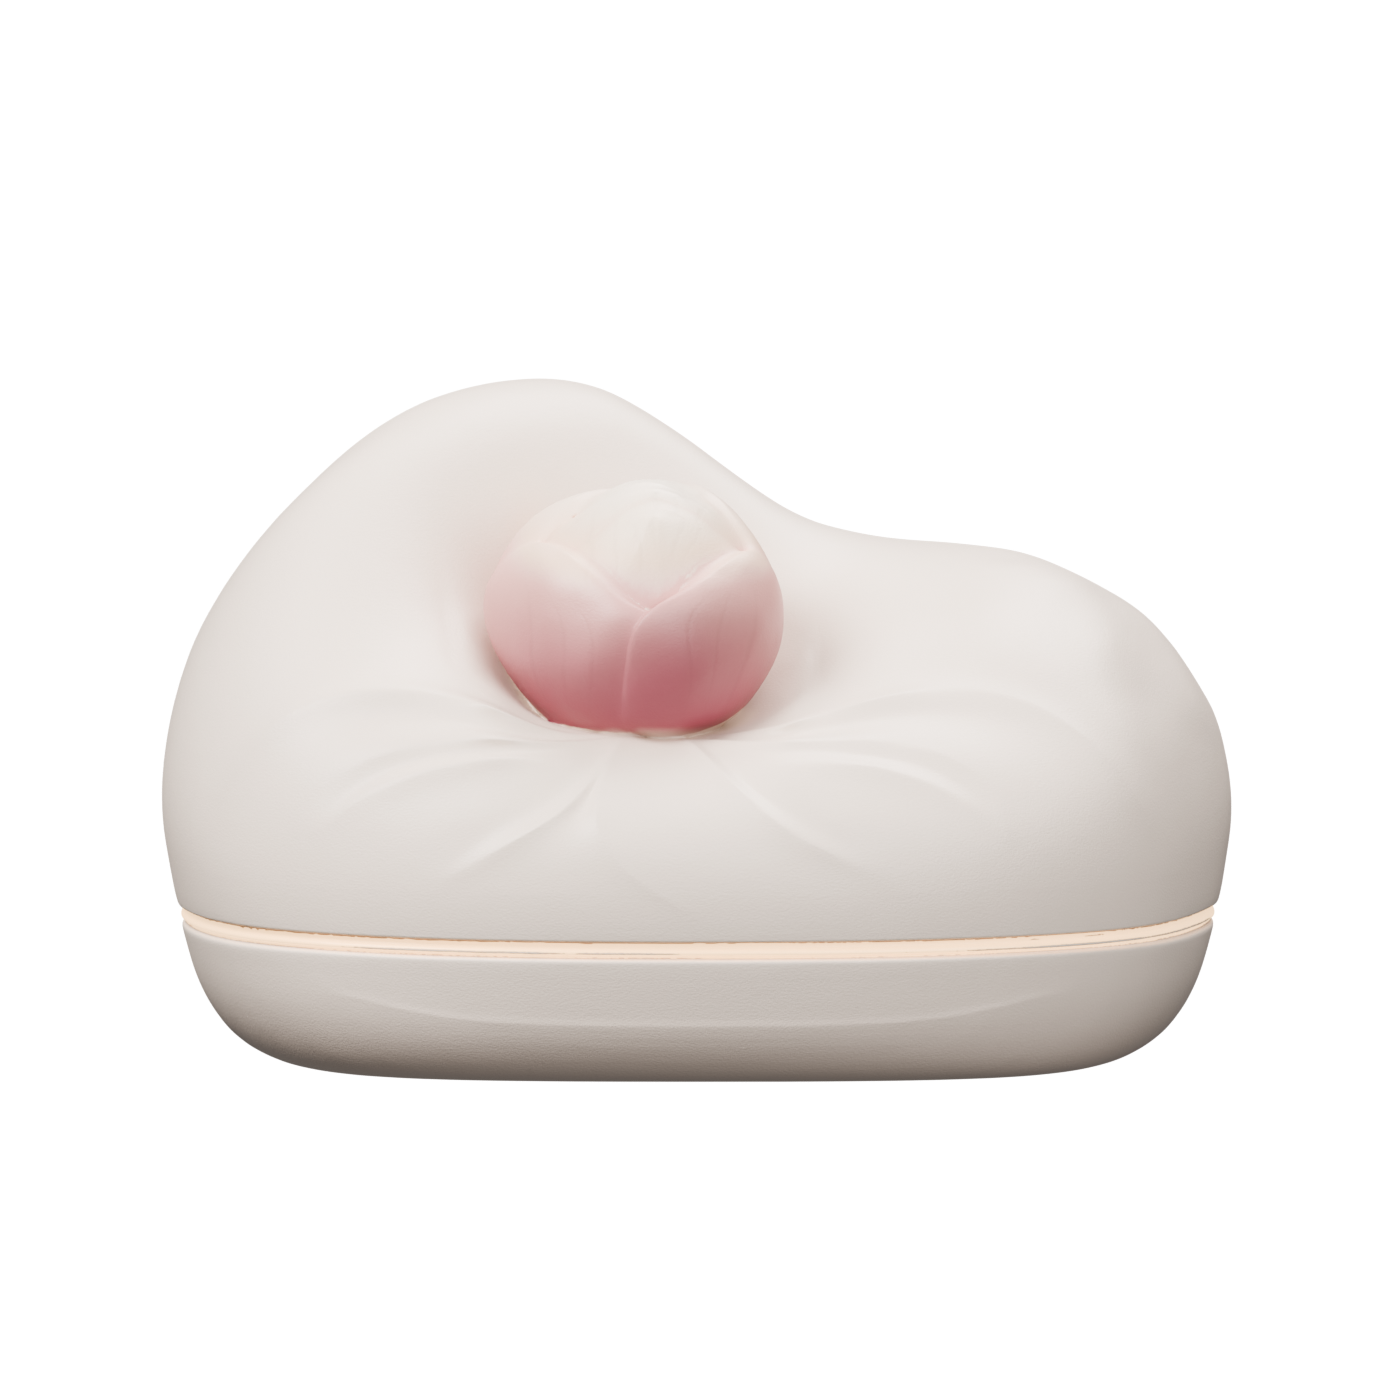
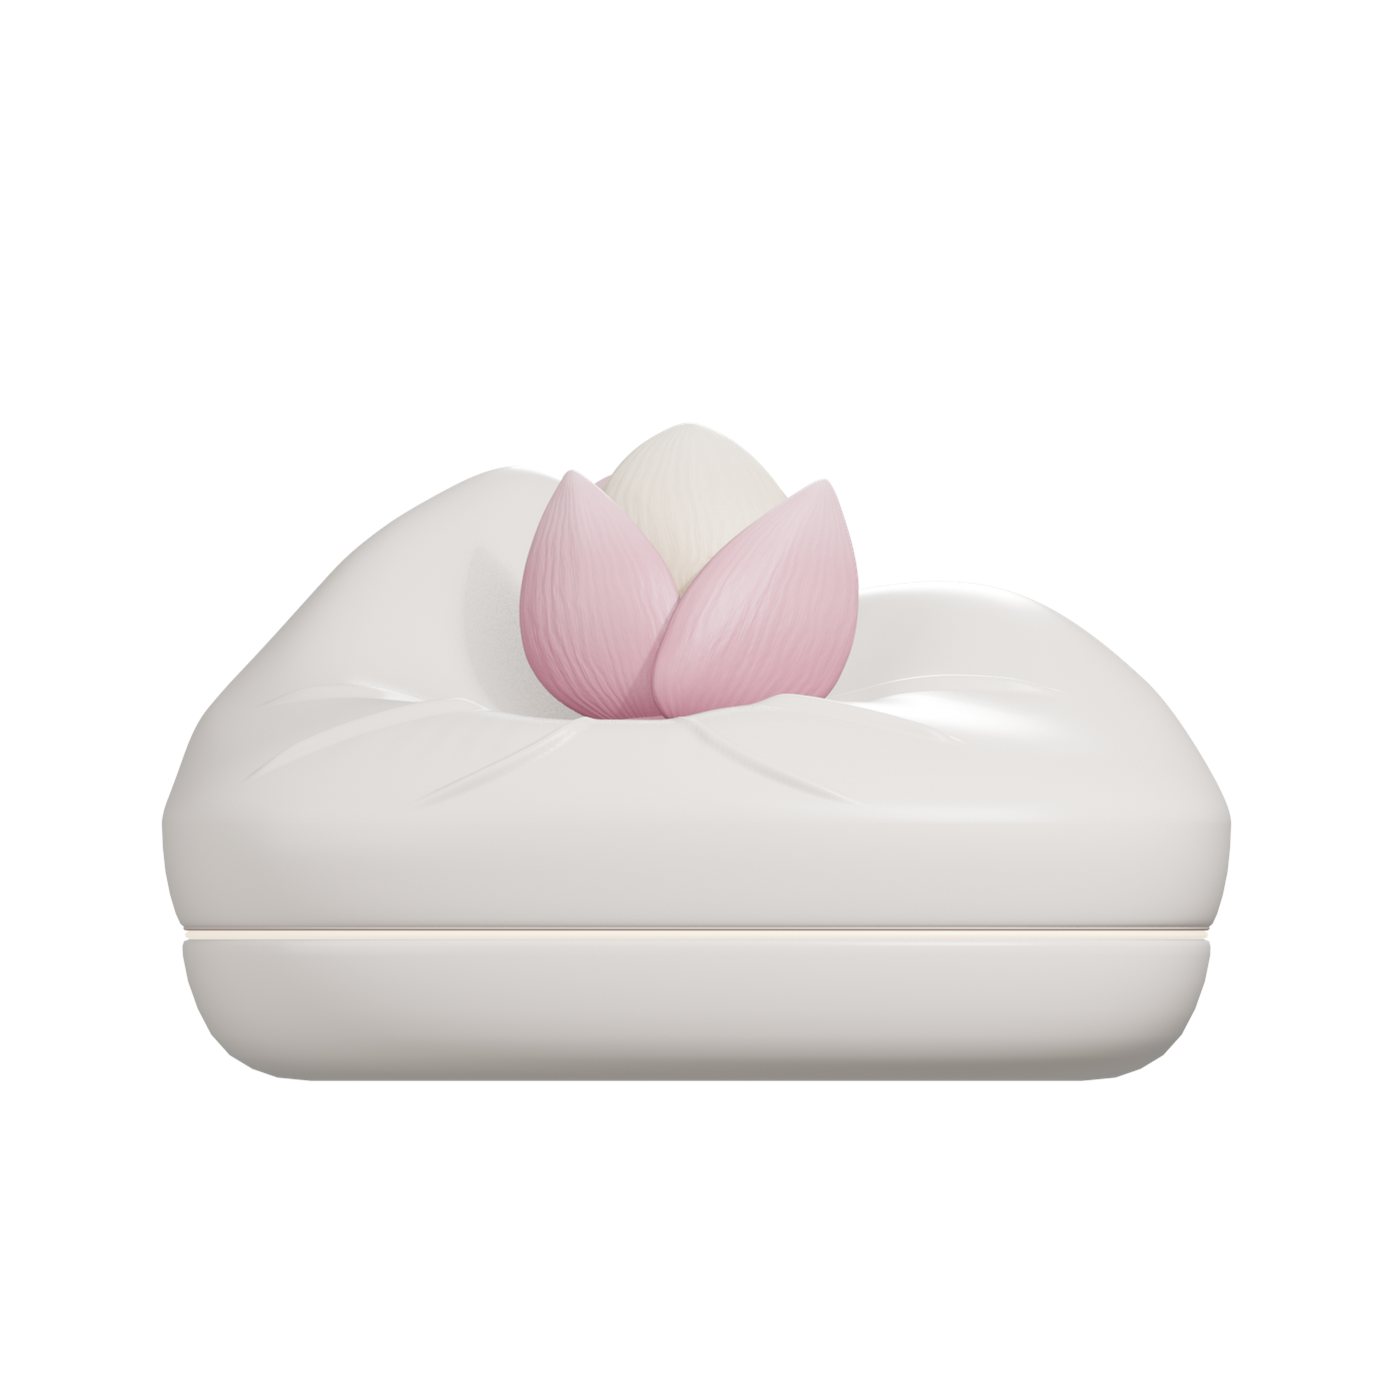
主视觉换成新建模（玉兰统一版）：product 收拢态 + bloom-open 开花叠层
- product.png/webp：新建模收拢态，正交正视图，按旧产品图的像素位置对齐（内容 bbox 161,421-1231,1081，脚底一致）
- bloom-open.png/webp：新建模开花态，裁成只含花的软窗叠层，机身像素与收拢态一致（差 <=2）
- css/bloom.css：由 body.is-igniting / body.is-lit 驱动淡入（无新增 JS）
- 360° 查看器与其它页面未改动

Changed region(s): [[0.0921, 0.2457, 0.8907, 0.7986], [0.6143, 0.4914, 0.7064, 0.5221]]

diff --git a/index.html b/index.html
@@ -18,6 +18,8 @@
 <link rel="stylesheet" href="css/embedded-masks.css?v=20261108c" />
 <link rel="stylesheet" href="css/state-color.css?v=20261116" />
 <link rel="stylesheet" href="css/lotus.css?v=20261116" />
+<link rel="stylesheet" href="css/bloom.css?v=20261124" />
+<link rel="preload" as="image" href="assets/censer/bloom-open.webp" />
 </head>
 <body data-theme="night" data-view="today">
 
@@ -98,6 +100,9 @@
           <img class="censer-art censer-art-day" src="assets/censer/product.webp"
                width="1254" height="1254" alt="" aria-hidden="true" draggable="false" />
           <img class="censer-art censer-art-night" src="assets/censer/product.webp"
+               width="1254" height="1254" alt="" aria-hidden="true" draggable="false" />
+          <!-- 开花态：与上面两张同机位同光照，点香后淡入叠加，读起来就是玉兰绽开 -->
+          <img class="censer-art censer-bloom" src="assets/censer/bloom-open.webp"
                width="1254" height="1254" alt="" aria-hidden="true" draggable="false" />
           <span class="censer-smoke-origin" id="censerSmokeOrigin" aria-hidden="true"></span>
 

diff --git a/css/bloom.css b/css/bloom.css
@@ -1,0 +1,31 @@
+/* 玉兰开花态叠层
+   与收拢态同机位、同光照渲染，点香后淡入——两帧机身完全重合，只有花瓣在动。
+   状态由 app.js 已有的 body.is-igniting / body.is-lit 驱动，不新增 JS。 */
+
+.censer-art.censer-bloom {
+  z-index: 2;
+  opacity: 0;
+  transition: opacity 2.1s cubic-bezier(.34, .1, .28, 1);
+  will-change: opacity;
+}
+
+/* 长按进度过半就开始微微透出一点花瓣 */
+body.is-igniting .censer-art.censer-bloom {
+  opacity: .35;
+  transition-duration: .6s;
+}
+
+/* 点香完成：花瓣完全绽开 */
+body.is-lit .censer-art.censer-bloom {
+  opacity: 1;
+  transition-duration: 2.1s;
+}
+
+/* 熄香：收回得比绽开慢一点，像花合拢 */
+body:not(.is-lit):not(.is-igniting) .censer-art.censer-bloom {
+  transition-duration: 2.6s;
+}
+
+@media (prefers-reduced-motion: reduce) {
+  .censer-art.censer-bloom { transition-duration: .01ms; }
+}
